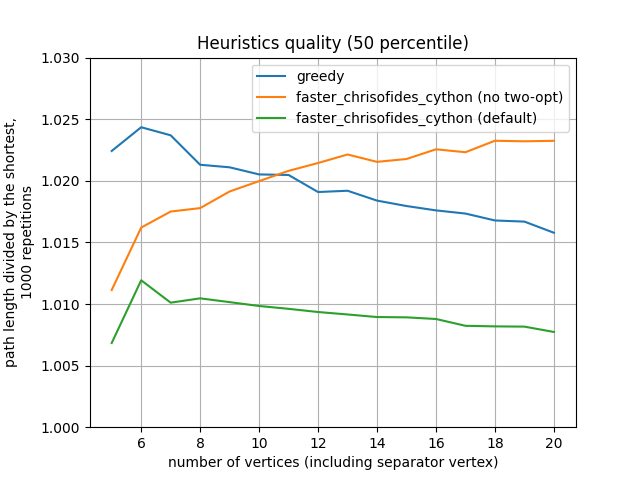
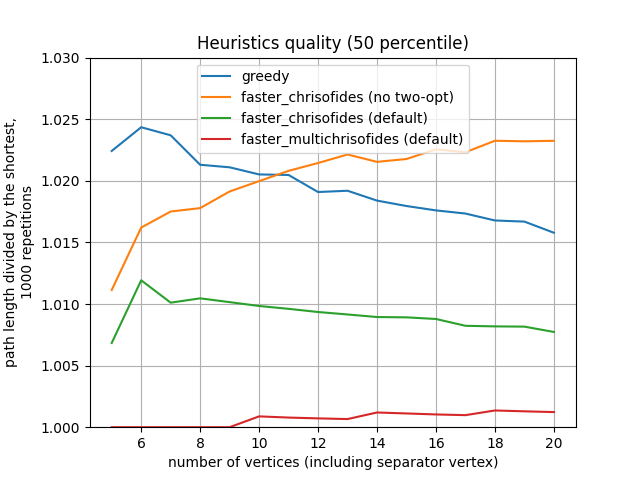
Added faster_multichristofides

diff --git a/src/faster_christofides.py b/src/faster_christofides.py
@@ -13,6 +13,17 @@ def faster_christofides(graph: np.array, two_opt_iters_max=10):
     return Christofides(graph, two_opt_iters_max).find_path()
 
 
+def faster_multichristofides(graph: np.array, two_opt_iters_max=10):
+    '''
+    Faster christofides (with approximate minimum-weight perfect matching)
+    which runs n times and chooses the shortest path found
+
+    Complexity: (without 2-opt https://en.wikipedia.org/wiki/2-opt) - O(n^2),
+    single 2-opt iteration - O(n^2) ... O(n^3);
+    '''
+    return Christofides(graph, two_opt_iters_max).find_path(multi=True)
+
+
 class Christofides:
     def __init__(self, graph: np.array, two_opt_iters_max: int):
         self.n = graph.shape[0]
@@ -63,7 +74,7 @@ class Christofides:
             self.odds.remove(closest)
 
     def find_euler_cycle(self, pos: int):
-        adjlist = self.adjlist[:]
+        adjlist = [x[:] for x in self.adjlist]
         path, stk = [], []
         stk = []
         while stk or adjlist[pos]:
@@ -94,7 +105,7 @@ class Christofides:
                 visited[path[next]] = True
                 curr, next = next, next + 1
 
-        length += self.graph[path[curr], path[root]]
+        length += self.graph[path[curr], root]
         return path, length
 
     def two_opt(self, path: list, length: int):
@@ -113,15 +124,19 @@ class Christofides:
                 break
         return path, length
 
-    def find_path(self):
+    def find_path(self, multi=False):
         self.find_mst()
         self.perfect_matching()
 
-        # оставшуюся часть функции можно запускать
-        # несколько раз и рандомить стартовую вершину
+        path_best, length_best = None, DIST_MAX
         start_pos = 0
-        path = self.find_euler_cycle(start_pos)
-        path, length = self.make_hamilton_cycle(path)
-
-        path, length = self.two_opt(path, length)
-        return path, length
+        while (not path_best or multi) and start_pos != self.n:
+            path = self.find_euler_cycle(start_pos)
+            path, length = self.make_hamilton_cycle(path)
+            path, length = self.two_opt(path, length)
+            if length_best > length:
+                length_best = length
+                path_best = path[:]
+            start_pos += 1
+        assert path_best
+        return path_best, length_best

diff --git a/src/_benchmark_quality.py b/src/_benchmark_quality.py
@@ -4,16 +4,18 @@ import numpy as np
 from time import perf_counter
 
 from gen_graph import gen_graph, calc_len
-from faster_christofides_cython import faster_christofides_cython
+from faster_christofides import faster_christofides, faster_multichristofides
+from faster_christofides_cython import faster_christofides_cython, faster_multichristofides_cython
 
 
+percentile = 99
 lengths_precomputed = np.loadtxt('lengths_precomputed.txt', dtype=np.int32)
 n_limit = lengths_precomputed.shape[0]
 n_start, n_limit, n_step, repetitions = 5, 20, 1, 1000
-plt.title('Heuristics quality (50 percentile)')
+plt.title(f'Heuristics quality ({percentile} percentile)')
 plt.xlabel('number of vertices (including separator vertex)')
 plt.ylabel('path length divided by the shortest,\n1000 repetitions')
-plt.ylim((1.0, 1.03))
+plt.ylim((1.0, 1.1))
 plt.grid(True)
 
 
@@ -41,16 +43,20 @@ def func2(graph):
 def func3(graph):
     return faster_christofides_cython(graph)
 
+def func4(graph):
+    return faster_multichristofides_cython(graph)
+
 
 func1.__name__ = 'greedy'
-func2.__name__ = 'faster_chrisofides_cython (no two-opt)'
-func3.__name__ = 'faster_chrisofides_cython (default)'
+func2.__name__ = 'faster_chrisofides (no two-opt)'
+func3.__name__ = 'faster_chrisofides (default)'
+func4.__name__ = 'faster_multichrisofides (default)'
 
-for func in (func1, func2, func3):
+for func in (func1, func2, func3, func4,):
     random.seed(42)
 
     x, y = [], []
-    # t1 = perf_counter()
+    t1 = perf_counter()
 
     for n in range(n_start, n_limit + n_step, n_step):
         ratios = np.zeros(repetitions, dtype=np.float64)
@@ -61,12 +67,12 @@ for func in (func1, func2, func3):
             assert length >= length_best
             ratios[i] = length / length_best
 
-        # t2 = perf_counter()
-        # print(f'{t2-t1:>8.3f} sec\t{n=:>2}')
-        # t1 = t2
+        t2 = perf_counter()
+        print(f'{t2-t1:>8.3f} sec\t{n=:>2}')
+        t1 = t2
 
         x.append(n)
-        y.append(np.percentile(ratios, 50))
+        y.append(np.percentile(ratios, percentile))
 
     plt.plot(x, y, label=func.__name__)
 
